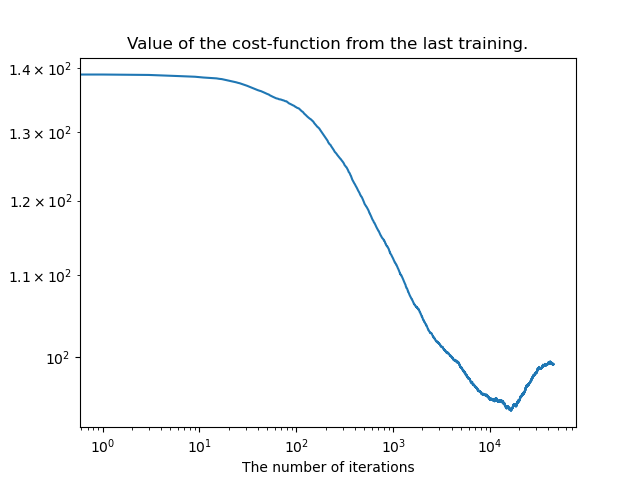
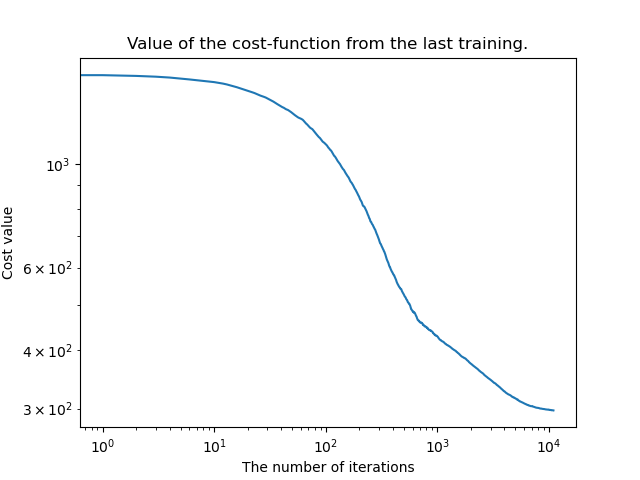
Tensorflow

diff --git a/project3/code/test_project_3.py b/project3/code/test_project_3.py
@@ -30,13 +30,13 @@ import numpy as np
 import gradient_descent
 import helper
 import seaborn as sns
-# from tensorflow.keras.layers import Input
-# from tensorflow.keras.models import Sequential
-# from tensorflow.keras.layers import Dense
-# from tensorflow.keras import optimizers
-# from tensorflow.keras import regularizers
-# from tensorflow.keras.utils import to_categorical
-# import tensorflow as tf
+from tensorflow.keras.layers import Input
+from tensorflow.keras.models import Sequential
+from tensorflow.keras.layers import Dense
+from tensorflow.keras import optimizers
+from tensorflow.keras import regularizers
+from tensorflow.keras.utils import to_categorical
+import tensorflow as tf
 
 
 """
@@ -651,20 +651,20 @@ if test12:
     n_components = 8
 
     X_train, X_test, y_train, y_test = helper.load_housing_california_data(
-        n_components, 1000)
+        n_components, 2000)
     # y_train = to_categorical(y_train)
     # y_test = to_categorical(y_test)
 
     model = Sequential()
-    model.add(Dense(50, activation="relu", input_dim=n_components))
-    model.add(Dense(50, activation="relu"))
-    model.add(Dense(50, activation="relu"))
+    model.add(Dense(10, activation="sigmoid", input_dim=n_components))
+    # model.add(Dense(50, activation="relu"))
+    # model.add(Dense(50, activation="relu"))
     model.add(Dense(1))
-    sgd = optimizers.SGD(learning_rate=1e-4, momentum=0.7)
+    sgd = optimizers.SGD(learning_rate=1e-4, momentum=0.5)
 
-#     model.compile(loss='mse',
-#                   optimizer=sgd,
-#                   metrics=[tf.keras.metrics.MeanSquaredError()])
+    model.compile(loss='mse',
+                  optimizer=sgd,
+                  metrics=[tf.keras.metrics.MeanSquaredError()])
 
     model.fit(X_train, y_train,
               epochs=2000,
@@ -850,16 +850,16 @@ METHOD: Neural Network
 Testing NN for housing data
 """
 
-test16 = True
+test16 = False
 if test16:
     print('>> RUNNING TEST 16:')
     # Loading the training and testing dataset
     n_components = 8
     X_train, X_test, y_train, y_test = helper.load_housing_california_data(
-        n_components, 500, show_explained_ratio=True)
+        n_components, 30, show_explained_ratio=True)
 
     # Setting the architecture of the Neural Network
-    node_list = [10]*4
+    node_list = [10]
 
     # Initializing the Neural Network
     FFNN = Neural_Network(
@@ -870,16 +870,16 @@ if test16:
 
     # Setting the preffered Stochastic Gradient Descent parameters
     FFNN.set_SGD_values(
-        n_epochs=2000,
-        batch_size=10,
+        n_epochs=1000,
+        batch_size=2,
         gamma=0.5,
-        eta=1e-3,
+        eta=1e-4,
         lmbda=0
     )
 
     # Setting the preffered cost- and activation functions
     FFNN.set_cost_function(MSE)
-    FFNN.set_activation_function_hidden_layers('RELU')
+    FFNN.set_activation_function_hidden_layers('sigmoid')
 
     FFNN.train_model(X_train, y_train, keep_cost_values=True)
     FFNN.plot_cost_of_last_training()

diff --git a/project3/code/helper.py b/project3/code/helper.py
@@ -484,14 +484,17 @@ def load_housing_california_data(n, m_observations, show_explained_ratio=False):
 
     # TODO: shuffle the data
     X_input = pd.data
-    y_target = pd.target    # 0 for benign and 1 for malignant
+    y_target = pd.target
     y_target = y_target.reshape(-1, 1)
 
-    # TODO: shuffle the data
+    values = np.concatenate((X_input, y_target), axis=1)
+    np.random.shuffle(values)
 
     # Selecting the n first components w.r.t. the PCA
-    X_input = X_input[:m_observations]
-    y_target = y_target[:m_observations]
+    X_input = values[:m_observations, :-1]
+    y_target = values[:m_observations, -1]
+    # X_input = X_input[m_observations:2*m_observations]
+    # y_target = y_target[m_observations:2*m_observations]
 
     pca = PCA(n_components=n)
     X_nD = pca.fit_transform(X_input)
@@ -545,45 +548,6 @@ def load_diabetes_data(n_components, m_observations=1000, show_explained_ratio=F
 
     return X_train, X_test, y_train, y_test
 
-
-def load_housing_data(n_components, m_observations=1000, show_explained_ratio=False):
-    """
-    # TODO: docstrings
-    """
-
-    path = "data/housing.csv"
-    # Loading the data into pandas
-    df = pd.read_csv(
-        path,
-        sep=","
-    )
-
-    df = df.drop(['ocean_proximity'], axis=1)
-    df = df.astype(float)
-
-    values = df.values
-
-    # Shuffle the data
-    np.random.shuffle(values)
-
-    X_input = values[:m_observations, :-1]
-    y_target = values[:m_observations, -1]
-
-    pca = PCA(n_components)
-
-    # Only include the "n_components" most important features
-    X_input_PCA = pca.fit_transform(X_input)
-
-    if show_explained_ratio:
-        print(pca.explained_variance_ratio_)
-
-    X_input_PCA = X_input_PCA/(X_input_PCA.max(axis=0))
-    y_target = y_target/(y_target.max(axis=0))
-
-    X_train, X_test, y_train, y_test = train_test_split(
-        X_input_PCA, y_target)
-
-    return X_train, X_test, y_train, y_test
 
 
 def load_dry_beans_data(n_components, m_observations=1000, show_explained_ratio=False):
